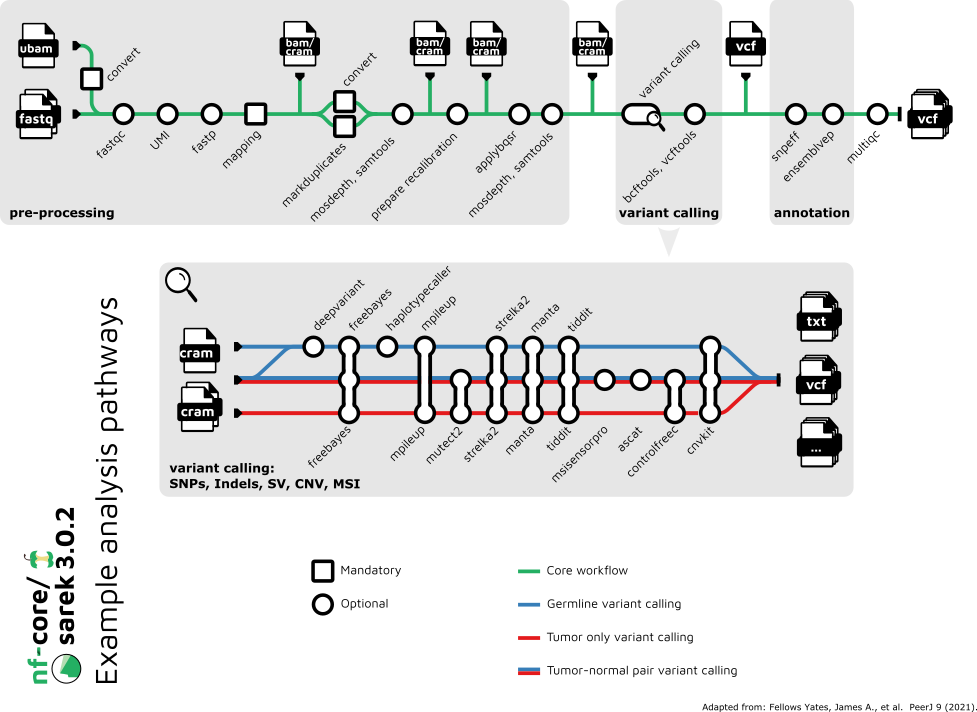
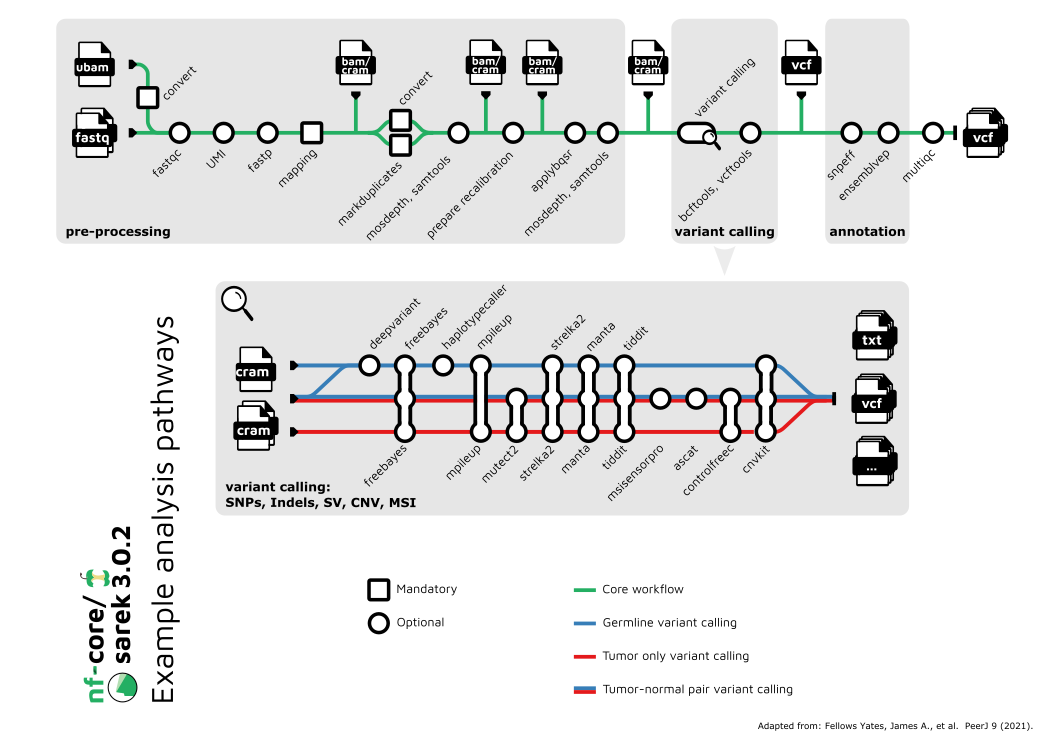
Changelog & page drawing

diff --git a/CHANGELOG.md b/CHANGELOG.md
@@ -17,6 +17,7 @@ and this project adheres to [Semantic Versioning](https://semver.org/spec/v2.0.0
 ### Fixed
 
 - [#762](https://github.com/nf-core/sarek/pull/762) - Polish CHANGELOG + figures
+- [#766](https://github.com/nf-core/sarek/pull/766) - Align box description in subway map
 
 ### Deprecated
 
